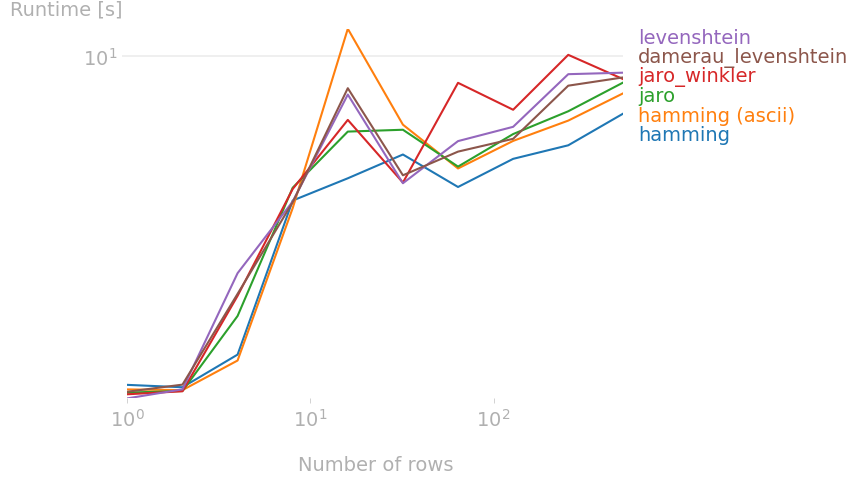
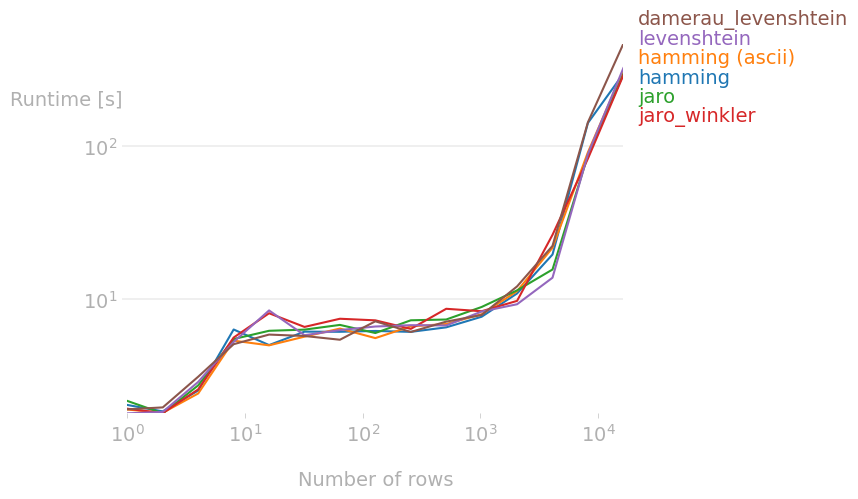
change to perfplot

diff --git a/benchmarks/benchmark.py b/benchmarks/benchmark.py
@@ -18,7 +18,7 @@ def main():
     perfplot.save(
         filename=Path(__file__).resolve().parents[0] / "edit_distance_scorers.png",
         setup=lambda n: data_setup(df, n),
-        n_range=[2**k for k in range(10)],
+        n_range=[2**k for k in range(15)],
         kernels=[
             lambda m: m.hamming(),
             lambda m: m.hamming(ascii_only=True),
